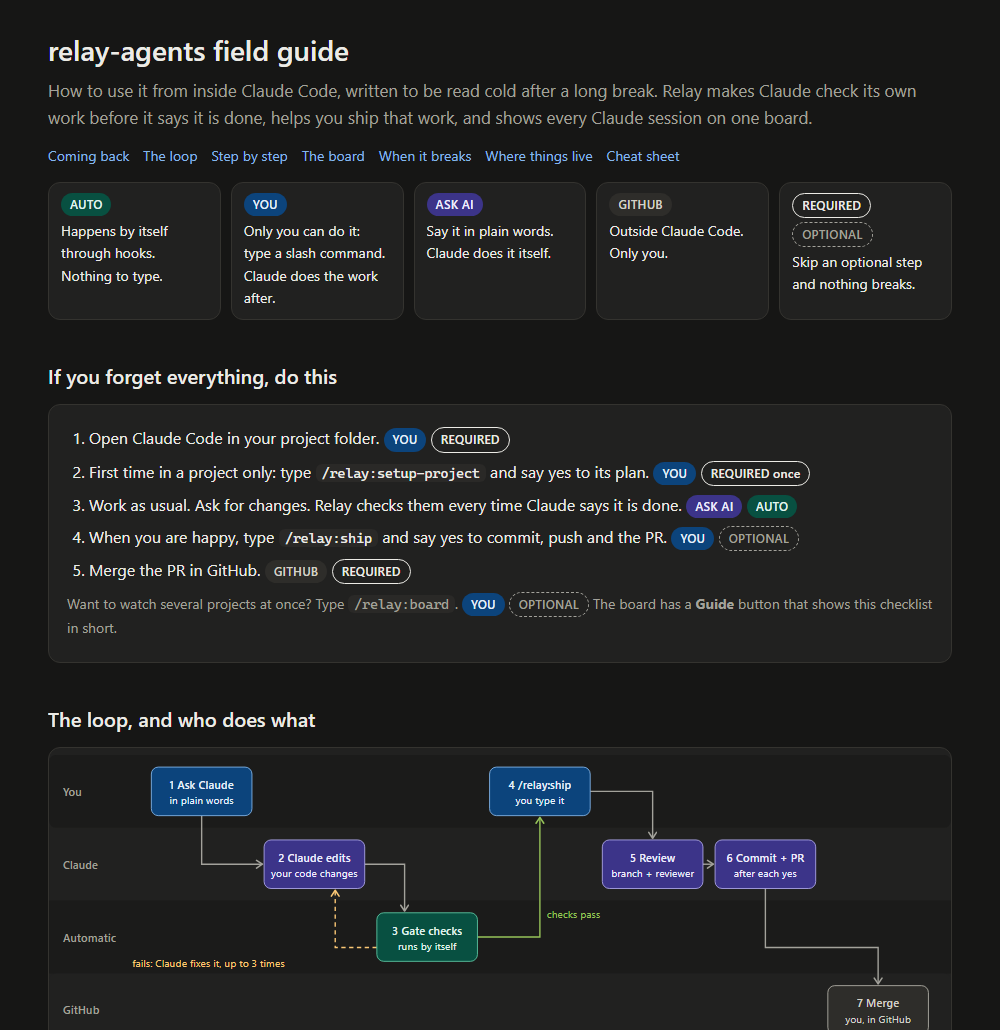
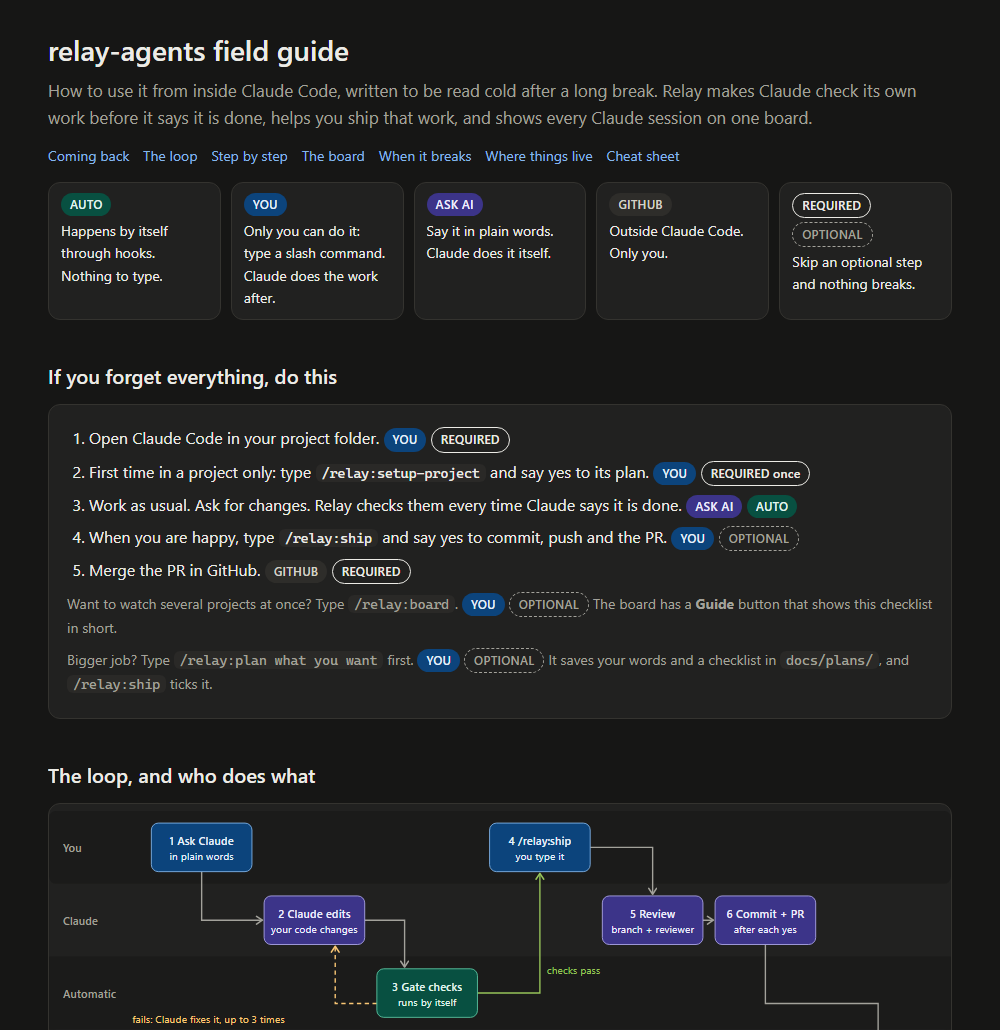
Add /relay:plan and plan ticking in /relay:ship (relay 0.4.0)
/relay:plan writes docs/plans/<slug>-<date>.md: the user's words copied
word for word, a goal, up to six phases that each end in a "Done when"
check, assumptions and a log. It asks before writing and does not start
the work; if a plan already covers the job it offers an append-only
extension. /relay:ship gains a Plan step that ticks only the boxes whose
check it has just confirmed, adds one Log line, and leaves the plan alone
when nothing can be ticked. Its review step now includes untracked files,
which a plain git diff leaves out. Adds the repo's own roadmap as the
first plan, updates README, the guide and the in-board guide, and
corrects AGENTS.md: the board runs from the installed plugin copy.

diff --git a/docs/guide.html b/docs/guide.html
@@ -95,6 +95,7 @@ footer{margin-top:40px;color:var(--muted);font-size:13px}
 <li>Merge the PR in GitHub. <span class="b gh">GITHUB</span> <span class="b req">REQUIRED</span></li>
 </ol>
 <p class="hint">Want to watch several projects at once? Type <code>/relay:board</code>. <span class="b you">YOU</span> <span class="b opt">OPTIONAL</span> The board has a <strong>Guide</strong> button that shows this checklist in short.</p>
+<p class="hint">Bigger job? Type <code>/relay:plan what you want</code> first. <span class="b you">YOU</span> <span class="b opt">OPTIONAL</span> It saves your words and a checklist in <code>docs/plans/</code>, and <code>/relay:ship</code> ticks it.</p>
 </div>
 
 <h2 id="map">The loop, and who does what</h2>
@@ -132,7 +133,7 @@ footer{margin-top:40px;color:var(--muted);font-size:13px}
 
 <div class="split">
 <div class="box"><h3>Only you can</h3><ul>
-<li>Type slash commands: <code>/relay:setup-project</code>, <code>/relay:ship</code>, <code>/relay:board</code>, <code>/reload-plugins</code>, <code>/plugin</code>.</li>
+<li>Type slash commands: <code>/relay:setup-project</code>, <code>/relay:plan</code>, <code>/relay:ship</code>, <code>/relay:board</code>, <code>/reload-plugins</code>, <code>/plugin</code>.</li>
 <li>Say yes before Claude commits, pushes or opens a PR.</li>
 <li>Click Merge in GitHub.</li></ul></div>
 <div class="box"><h3>Claude can do itself</h3><ul>
@@ -201,7 +202,7 @@ footer{margin-top:40px;color:var(--muted);font-size:13px}
 <div class="fact"><small>Needed?</small><span class="b opt">OPTIONAL</span></div>
 <div class="fact"><small>Can the AI do it?</small>Yes. You can also just say <em>"commit this and open a PR"</em>.</div>
 </div>
-<p>Type <span class="cmd">/relay:ship what you built</span>. Claude makes sure you are on a branch (never <code>main</code>), runs the gates and the slow checks, has the read-only <code>reviewer</code> agent check the diff, fixes serious findings, then shows the status, the commit message and the PR text. It asks before the commit, before the push and before opening the PR.</p>
+<p>Type <span class="cmd">/relay:ship what you built</span>. Claude makes sure you are on a branch (never <code>main</code>), runs the gates and the slow checks, has the read-only <code>reviewer</code> agent check the diff, fixes serious findings, then shows the status, the commit message and the PR text. It asks before the commit, before the push and before opening the PR. If a plan in <code>docs/plans/</code> is in progress, it ticks the boxes whose "Done when" check it has just confirmed.</p>
 <p class="hint">Plain words skip the review and the slow checks. <code>/relay:ship</code> adds them.</p>
 </div></div>
 
@@ -268,6 +269,7 @@ footer{margin-top:40px;color:var(--muted);font-size:13px}
 <tr><td>This repo</td><td><code>C:\Users\huash\Documents\GitHub\relay-agents</code> and GitHub <code>Phreyle/relay-agents</code> (private)</td></tr>
 <tr><td>Relay's source</td><td><code>plugins/relay/</code> (hooks, board, skills, agents)</td></tr>
 <tr><td>Per-project settings</td><td><code>.claude/relay.json</code> (checks), <code>.claude/settings.json</code> (deny rules), <code>AGENTS.md</code> and <code>CLAUDE.md</code> (the brief)</td></tr>
+<tr><td>Plans</td><td><code>docs/plans/</code> in each project (written by <code>/relay:plan</code>; this repo's roadmap is the first)</td></tr>
 <tr><td>Short guide</td><td>The <strong>Guide</strong> button on the board, <code>http://127.0.0.1:4317</code> (the board must be running)</td></tr>
 <tr><td>Board data</td><td><code>C:\Users\huash\.claude\plugins\data\relay-relay-agents\events.jsonl</code></td></tr>
 <tr><td>Installed copies</td><td><code>C:\Users\huash\.claude\plugins\cache\relay-agents\relay\&lt;version&gt;\</code></td></tr>
@@ -280,6 +282,7 @@ footer{margin-top:40px;color:var(--muted);font-size:13px}
 <table>
 <tr><th>Type in Claude Code</th><th>What it does</th></tr>
 <tr><td><code>/relay:setup-project</code></td><td>Once per project: finds the checks, sets guardrails</td></tr>
+<tr><td><code>/relay:plan [what you want]</code></td><td>Optional, for bigger jobs: saves your words and a checklist in docs/plans/</td></tr>
 <tr><td><code>/relay:ship [what you built]</code></td><td>Branch, checks, review, then asks before commit, push and PR</td></tr>
 <tr><td><code>/relay:board</code></td><td>Starts the board and opens it</td></tr>
 <tr><td><code>/reload-plugins</code></td><td>After any install or update, in every open session</td></tr>
@@ -300,7 +303,7 @@ footer{margin-top:40px;color:var(--muted);font-size:13px}
 <p><strong>Known limits:</strong> "needs you" stays until the next event, because nothing fires when you answer a prompt. "Ready to ship" only means the checks passed, not that you committed.</p>
 </div>
 
-<footer>Written 2026-10-15 for relay 0.3.1. Lives at <code>docs/guide.html</code> in Phreyle/relay-agents. Open it by double-clicking, or ask Claude to open it.</footer>
+<footer>Written 2026-10-15 for relay 0.4.0. Lives at <code>docs/guide.html</code> in Phreyle/relay-agents. Open it by double-clicking, or ask Claude to open it.</footer>
 </main>
 </body>
 </html>

diff --git a/plugins/relay/board/index.html b/plugins/relay/board/index.html
@@ -75,7 +75,7 @@ code{font:12.5px ui-monospace,Consolas,monospace;background:var(--gray-bg);borde
 <ol>
 <li><div><b>Open Claude Code in your project folder.</b> <span class="b you">YOU</span> <span class="b req">REQUIRED</span></div></li>
 <li><div><b>First time in a project: type <code>/relay:setup-project</code>, then say yes.</b> <span class="b you">YOU</span> <span class="b req">REQUIRED</span><small>Once per project. Claude finds your checks and shows the plan before it writes anything.</small></div></li>
-<li><div><b>Work as usual. Ask for changes.</b> <span class="b ai">ASK AI</span> <span class="b auto">AUTO</span><small>Each time Claude says it is done, relay runs your checks and sends it back if one fails. Nothing to do.</small></div></li>
+<li><div><b>Work as usual. Ask for changes.</b> <span class="b ai">ASK AI</span> <span class="b auto">AUTO</span><small>Each time Claude says it is done, relay runs your checks and sends it back if one fails. Nothing to do. Bigger job? <code>/relay:plan</code> first (optional).</small></div></li>
 <li><div><b>Happy with it? Type <code>/relay:ship</code>.</b> <span class="b you">YOU</span> <span class="b opt">OPTIONAL</span><small>Claude reviews, then asks before commit, push and PR. Or just ask: "commit this and open a PR".</small></div></li>
 <li><div><b>Merge the PR in GitHub.</b> <span class="b gh">GITHUB</span> <span class="b req">REQUIRED</span><small>The only step outside Claude Code. Relay never merges.</small></div></li>
 <li><div><b>Watch this board.</b> <span class="b auto">AUTO</span><small>Purple: go answer that session. Amber: a check failed, Claude is fixing it. Green: ready to ship.</small></div></li>

diff --git a/README.md b/README.md
@@ -2,7 +2,7 @@
 
 A playground for learning AI engineering with Claude Code. It holds two things that run side by side, enabled for this repo only:
 
-- **relay**: my own Claude Code plugin (two agents, three skills, a Stop-hook quality gate, and a live status board for every Claude session).
+- **relay**: my own Claude Code plugin (two agents, four skills, a Stop-hook quality gate, and a live status board for every Claude session).
 - **SuperClaude** v4.3.0: a third-party command and agent framework, installed at project scope: 30 `/sc:*` commands in `.claude/commands/sc/` and 20 agents in `.claude/agents/`. It has no Claude Code plugin yet, and its official installer writes to global `~/.claude`, so it is installed by script instead. See `THIRD_PARTY/SuperClaude-LICENSE.md` for its license, the script and how to refresh it.
 
 ## Quick guide: read this first after a break
@@ -17,6 +17,7 @@ The same checklist, shorter, is built into the board: click **Guide** at the top
 
 ```
 docs/guide.html                   the visual field guide (open in a browser)
+docs/plans/                       plans written by /relay:plan (this repo's roadmap is the first)
 AGENTS.md                         the brief for any coding agent here: commands, rules, known traps
 CLAUDE.md                         one line that imports AGENTS.md
 .github/workflows/ci.yml          CI: the self-test on Ubuntu and Windows for every PR
@@ -26,6 +27,7 @@ plugins/relay/                    the plugin itself
   agents/reviewer.md              read-only reviewer
   agents/tester.md                writes tests in the project's own style
   skills/setup-project/SKILL.md   /relay:setup-project
+  skills/plan/SKILL.md            /relay:plan
   skills/ship/SKILL.md            /relay:ship
   skills/board/SKILL.md           /relay:board
   hooks/hooks.json                registers the hooks
@@ -41,7 +43,7 @@ plugins/relay/                    the plugin itself
 - **Marketplace**: a catalog file that tells Claude Code where plugins live, so other repos can install relay by name.
 - **Plugin**: a folder of agents, skills and hooks that Claude Code loads as one unit. Its commands are prefixed with the plugin name, for example `/relay:ship`.
 - **Agent** (subagent): a specialist Claude can hand a job to, with its own tool allowlist. `reviewer` only has Read, Grep and Glob, so it cannot edit anything. `tester` can edit and run, but its instructions limit it to test files.
-- **Skill**: a reusable instruction file that runs when you type its command. All three relay skills set `disable-model-invocation`, so they are never loaded unless you call them.
+- **Skill**: a reusable instruction file that runs when you type its command. All four relay skills set `disable-model-invocation`, so they are never loaded unless you call them.
 - **Hook**: a script Claude Code runs at a lifecycle event. relay uses `Stop`, which fires each time Claude says it is done, plus five more events for the board.
 
 ## The quality gate (Stop hook)
@@ -124,7 +126,8 @@ Start it from any session where relay is enabled with `/relay:board`, or run `no
 
 - `/relay:board`: starts the board server and opens the page.
 - `/relay:setup-project`: run once in a new repo. Detects the stack, tries each check and keeps only those that pass today and need no running server, writes `.claude/relay.json` (an existing one is kept), writes an `AGENTS.md` brief and a one-line `CLAUDE.md` that imports it (each only if missing, never overwritten; if both exist without an import, it offers to add one), and adds deny rules for deploy, publish and remote-database scripts. It shows everything before writing.
-- `/relay:ship [task]`: runs the gate and the slow checks, sends the diff to the reviewer agent, then asks before commit, push and PR. It refuses to work on `main`.
+- `/relay:plan [what you want]`: for a bigger job. Saves your words word for word, a goal, up to 6 phases with tick boxes, assumptions and a log in `docs/plans/<slug>-<date>.md`, after you confirm. It writes no code and does not start the work.
+- `/relay:ship [task]`: runs the gate and the slow checks, sends the diff to the reviewer agent, ticks the boxes of a plan in progress whose "Done when" check it has just confirmed (and logs it), then asks before commit, push and PR. It refuses to work on `main`.
 
 ## Install relay in another repo
 
@@ -152,9 +155,9 @@ Then start Claude Code and run `/relay:setup-project`. Commit that repo's `.clau
 
 Everything Claude loads every turn costs tokens. Measured with `/context` on 2026-10-14:
 
-- **relay: 79 tokens per turn.** The `reviewer` and `tester` agent descriptions cost 44 and 35. None of the skills appears in the Skills list (all three set `disable-model-invocation`), so they cost nothing until you run them. The hooks add no tokens: the gate costs nothing unless it blocks, and the board's emit hook is silent. (Measured before the board existed; its hooks add no description, so I expect no change but have not re-measured.) `claude plugin details relay` prints a static estimate of about 123 tokens that counts the skills, so it overstates.
+- **relay: 79 tokens per turn.** The `reviewer` and `tester` agent descriptions cost 44 and 35. None of the skills appears in the Skills list (all four set `disable-model-invocation`), so they cost nothing until you run them. The hooks add no tokens: the gate costs nothing unless it blocks, and the board's emit hook is silent. (Measured before the board existed; its hooks add no description, so I expect no change but have not re-measured.) `claude plugin details relay` prints a static estimate of about 123 tokens (with three skills, before `/relay:plan`) that counts the skills, so it overstates.
 - **SuperClaude: about 0.9k tokens per turn.** Custom agents went from 1.1k to 2.0k for its 20 agents (about 45 each). The Skills line stayed at 9.8k, so its 30 commands showed no measurable cost there. These figures compare two sessions and are rounded to 0.1k.
-- **This repo's `AGENTS.md`: about 750 tokens per session** (3,005 characters on 2026-10-15 at roughly 4 characters per token; an estimate, not measured with `/context`, and the file will grow). A brief is loaded into every session of the project, so keep it short.
+- **This repo's `AGENTS.md`: about 800 tokens per session** (3,242 characters on 2026-10-15 at roughly 4 characters per token; an estimate, not measured with `/context`, and the file will grow). A brief is loaded into every session of the project, so keep it short.
 
 ## License
 

diff --git a/plugins/relay/skills/ship/SKILL.md b/plugins/relay/skills/ship/SKILL.md
@@ -1,12 +1,13 @@
 ---
 name: ship
-description: Pre-PR checks. Runs the slow checks the Stop gate skips, runs the reviewer agent, then commits, pushes and opens a PR after confirmation.
+description: Pre-PR checks. Runs the slow checks the Stop gate skips, runs the reviewer agent, ticks a plan in progress, then commits, pushes and opens a PR after confirmation.
 disable-model-invocation: true
 argument-hint: [the task, in one line]
 ---
 Ship the current work. Task: $ARGUMENTS (if empty, ask me for it in one line).
 
 1. **Branch.** Run `git branch --show-current`. On `main` or `master`, propose a branch name `feat/<slug>` and `git switch -c` it. Never commit to or push `main`.
-2. **Checks.** Read `.claude/relay.json`. Run every `gates` command, then every `slow` command, in order. Stop at the first failure, show the last 40 lines, and fix it or ask me. No `relay.json`: say so and suggest `/relay:setup-project`.
-3. **Review.** Collect the diff against the base branch (`git diff <base>...HEAD` plus uncommitted changes; base is `origin/HEAD` or `main`). Send the task and the diff to the `relay:reviewer` agent. Show its findings. Fix blockers and majors, then re-run step 2.
-4. **Confirm before anything outward.** Show `git status`, the proposed commit message, and the PR title and body. Ask before each of: commit, push, open the PR. Push with `git push -u origin <branch>` and open with `gh pr create`. Never merge, never force-push.
+2. **Checks.** Read `.claude/relay.json`. Run the `cmd` of every `gates` entry, then of every `slow` entry, in order. Stop at the first failure, show the last 40 lines, and fix it or ask me. No `relay.json`: say so and suggest `/relay:setup-project`.
+3. **Review.** Collect the change: `git diff <base>...HEAD` plus `git diff HEAD` (base is `origin/HEAD` if it exists, else `main`, else `master`), plus the contents of untracked files (`git ls-files --others --exclude-standard`), which a plain diff leaves out. Send the task and the change to the `relay:reviewer` agent. Show its findings. Fix blockers and majors, then re-run step 2.
+4. **Plan.** Look in `docs/plans/` for plans with `Status: in progress`. None: skip this step. Use the one the task names (its slug or title, matched loosely); if the task names none, use the one whose phases the change matches. If the task fits several plans, or none fits, ask me in one line and tick nothing until I answer. Check every unticked box of that plan and tick those whose `Done when` holds now (run the command, or read the file or output). Run a plan's command only if it is safe to run now: nothing that deploys, sends messages or changes a database. If a check is unsafe to run, or is something only I can see, leave the box, say so, and carry on to step 5. Add one line at the end of its Log naming every phase you ticked and, in a few words, what the change did: `- <today>: Phase 2 done (overdue function)`. If you ticked nothing, leave the plan file alone and say why. Set `Status: done` only if every box is ticked and every `Done when` holds; if a box was already ticked and you cannot confirm it, leave that box and the Status as they are and tell me.
+5. **Confirm before anything outward.** Show the files you will stage, by name (the plan too, if you changed it; never `git add -A`), the proposed commit message, and the PR title and body: what changed, the checks that passed, and the plan ticks and open phases. Ask before each of: commit (staging those files first), push, open the PR. No `origin` remote: say so and stop after the commit. Push with `git push -u origin <branch>` and open with `gh pr create`. Never merge, never force-push.

diff --git a/plugins/relay/skills/plan/SKILL.md b/plugins/relay/skills/plan/SKILL.md
@@ -1,0 +1,42 @@
+---
+name: plan
+description: Write a plan file for a bigger job. Your words are kept word for word, with a goal, phases with tick boxes, assumptions and a log, saved in docs/plans/. /relay:ship ticks the boxes.
+disable-model-invocation: true
+argument-hint: [what you want, in your own words]
+---
+Write a plan for this job. My words: $ARGUMENTS (if empty, ask me for them in one line before anything else). Write nothing to disk until I confirm (in step 1 for an extension, in step 4 for a new plan), and write no code while planning.
+
+1. **Read first.** Read `AGENTS.md` and `CLAUDE.md` (whichever exist), `README.md`, and the code this job touches. If the whole job is one small change (a few lines in one or two files), say so and offer to just do it instead; if I say yes, stop planning and do the change. List `docs/plans/` and open every plan whose slug, title or goal could be about this job, by meaning and not only by shared words. If one covers it, say so and, in the same message, show exactly the lines you would change or add; make those edits and no others, and only after I say yes. If a box already ticked there no longer holds in the code, say so but leave it as it is. If I would rather have a separate plan, go on to step 2. Extending is append-only: add `Added <YYYY-MM-DD>:` and a quote of my new words under `Your words`; add phases (the cap in step 3 counts ticked ones; past it, offer a separate plan); replace a lone `- none` under Assumptions, or add to it; add one Log line (`<YYYY-MM-DD>: Extended: <what>`); and set Status back to `in progress` if it was `done`. Never change existing quotes, phases, boxes or Log lines; rewrite Goal only if my new words change the job.
+2. **Draft `docs/plans/<slug>-<YYYY-MM-DD>.md`.** The slug is 2 to 5 lowercase words joined by hyphens; if the file already exists, add `-2` after the slug. Use today's date from your context (or `date +%F` in a shell). Shape:
+
+   ```markdown
+   # <Title: a short noun phrase>
+
+   Status: in progress
+   Opened: <YYYY-MM-DD>
+
+   ## Your words
+
+   > <my words, copied exactly, typos included>
+
+   ## Goal
+
+   <One or two sentences.>
+
+   ## Phases
+
+   - [ ] **Phase 1: <name>.** <what changes>. Done when: <a command that passes, or a file or output you can check>.
+   - [ ] **Phase 2: <name>.** <what changes>. Done when: <...>.
+
+   ## Assumptions
+
+   - <every choice you made without asking me>
+
+   ## Log
+
+   - <YYYY-MM-DD>: Plan written.
+   ```
+
+   Copy my words exactly, typos included, with `> ` at the start of every line (a blank line becomes a line holding only `>`). Fix typos in the Title and Goal, never in `Your words`.
+3. **Keep it small.** At most 6 phases in total, each one working session with a check that can fail: a command that passes, or a file or output that can be inspected, not a feeling. If one unknown blocks the plan, ask me one short question (two at most) before you draft; otherwise put it under Assumptions.
+4. **Show** the draft in a code block and ask me to confirm. Write the file only after I say yes, creating `docs/plans/` if it is missing and never overwriting an existing file. Then tell me the path and stop: do not start any phase.

diff --git a/AGENTS.md b/AGENTS.md
@@ -1,6 +1,6 @@
 # relay-agents
 
-My Claude Code playground. It holds `relay` (my own plugin: reviewer and tester agents, setup, ship and board skills, a Stop-hook quality gate, a live status board) and SuperClaude 4.3.0 (third-party, vendored, this repo only). `README.md` has the full picture and `docs/guide.html` the visual guide.
+My Claude Code playground. It holds `relay` (my own plugin: reviewer and tester agents, setup, plan, ship and board skills, a Stop-hook quality gate, a live status board) and SuperClaude 4.3.0 (third-party, vendored, this repo only). `README.md` has the full picture and `docs/guide.html` the visual guide.
 
 ## Commands
 
@@ -12,6 +12,7 @@ My Claude Code playground. It holds `relay` (my own plugin: reviewer and tester 
 
 - Work on a branch, never on `main`. Open a PR. The owner merges: never merge, force-push or push `main`.
 - Ask before every commit, push and PR.
+- More than one PR of work? Ask me to run `/relay:plan` first (agents cannot run it). It writes `docs/plans/<slug>-<date>.md`, and `/relay:ship` ticks its boxes. The roadmap is `docs/plans/relay-upgrades-2026-10-15.md`.
 - Changed anything under `plugins/relay/`? Bump `version` in `plugins/relay/.claude-plugin/plugin.json`, or installs keep the old copy.
 - Hooks stay silent: stdout from `SessionStart` and `UserPromptSubmit` hooks goes into Claude's context. `emit.mjs` prints nothing.
 - Keep files short. Tests sit next to the code (`events.mjs` is covered through `emit.test.mjs`).
@@ -28,6 +29,6 @@ Add one line here each time something non-obvious costs you time: what happened 
 - The terminals inside the Claude app cannot find `claude` (PATH lacks the npm folder). Run `claude plugin ...` from the agent's own shell.
 - `CLAUDE_PROJECT_DIR` goes stale when a session changes folders. The gate starts from the hook's `cwd` and the git root.
 - `claude plugin list` omits a relative-path plugin from a local marketplace. Use `claude plugin details relay`.
-- A running board keeps the code it started with. Restart it after an update. `/relay:board` runs the board from this folder, so keep this folder on `main` once a change is merged.
+- A running board keeps the code it started with. `/relay:board` runs it from the installed plugin copy (`${CLAUDE_PLUGIN_ROOT}`), so run `claude plugin update` first, then restart the board.
 - A skill with `disable-model-invocation` cannot be run by the agent. Test its text by having a fresh subagent follow it step by step in scratch folders under the session scratchpad, then send the folders to the Recycle Bin.
 - A board card needs a real event (start, prompt, notification, failure or end). A gate run by hand makes no card.

diff --git a/docs/plans/relay-upgrades-2026-10-15.md b/docs/plans/relay-upgrades-2026-10-15.md
@@ -1,0 +1,41 @@
+# Relay upgrades from Angelo's workflow
+
+Status: in progress
+Opened: 2026-10-15
+
+## Your words
+
+> I don't have Unity Repo setup in Git hub, rather it is setup in Unity Version Control. anyways we keep leave the Game Development outside. and focus more on Software Development and Ai Engineering. can you provide me visual representation in Artifacts. on how we can improve relay. like how Angelo does it. dont go over board with it, do it in caveman terms
+
+Added 2026-10-15:
+
+> okay let's proceed to upgrading Relay-Agents
+
+Added 2026-10-15:
+
+> what's next? and continue it
+
+## Goal
+
+Add the pieces Angelo Umali's public workflow has and relay lacks, one small PR at a time, aimed at software development and AI engineering. The picture of this plan is the "Relay Upgrade Map" Artifact.
+
+## Phases
+
+- [x] **Phase 1: CI on every PR.** GitHub Actions runs the self-test on Ubuntu and Windows. Done when: the PR's checks go green on both.
+- [x] **Phase 2: AGENTS.md is the brief.** `/relay:setup-project` writes `AGENTS.md` and a one-line `CLAUDE.md` that imports it. Done when: cold-read tests of the skill pass in scratch folders.
+- [x] **Phase 3: Plan and ledger.** `/relay:plan` writes this kind of file and `/relay:ship` ticks the boxes. Done when: cold-read tests of both skills pass in scratch folders.
+- [ ] **Phase 4: Prove it.** `/relay:verify` runs the real app, reads the errors, saves a screenshot and says pass or fail. Done when: it passes and fails correctly on a scratch project.
+- [ ] **Phase 5: Stronger ship.** `/relay:ship` adds a security review agent and runs verify before the PR. Done when: a PR body lists the gate, review and verify results.
+
+## Assumptions
+
+- Game development is out of scope: the owner's Unity work lives in Unity Version Control, not GitHub.
+- The order is the one on the map. Each phase is its own PR, and the owner merges it.
+- Parking lot, not planned yet: many agents with one worktree each, and a scoreboard of what the gate caught.
+
+## Log
+
+- 2026-10-15: Plan written.
+- 2026-10-15: Phase 1 done (PR #6, CI green on Ubuntu and Windows).
+- 2026-10-15: Phase 2 done (PRs #6 and #7, relay 0.3.1, cold-read tests passed).
+- 2026-10-15: Phase 3 done (relay 0.4.0, cold-read tests of /relay:plan and /relay:ship passed in scratch folders).
